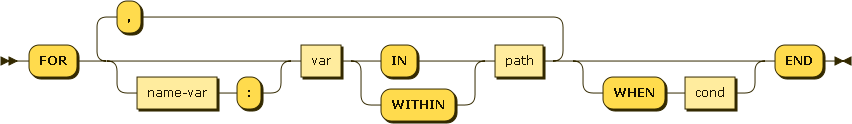
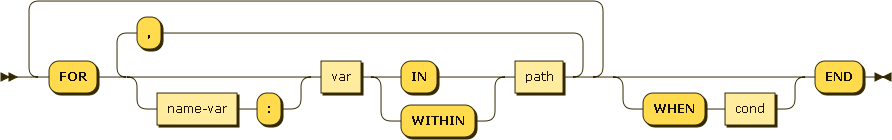
Add syntax for chained UPDATE FOR.

Changed region(s): [[0.0, 0.0, 1.0, 0.9919], [0.6714, 0.0242, 0.7019, 0.0484]]

diff --git a/docs/n1ql-dml.md b/docs/n1ql-dml.md
@@ -2,7 +2,7 @@
 
 + Status: DRAFT/PROPOSAL
 + Latest: [n1ql-dml](https://github.com/couchbase/query/blob/master/docs/n1ql-dml.md)
-+ Modified: 2016-03-28
++ Modified: 2016-06-04
 
 ## Introduction
 
@@ -322,6 +322,8 @@ Generator](http://railroad.my28msec.com/) ![](diagram/.png)
     * Explain that LIMIT is not exact
 * 2016-03-28 - Ranging over objects
     * Add syntax for UPDATE with ranging over objects
+* 2016-06-07 - Chained UPDATE FOR
+    * Add syntax for chained UPDATE FOR
 
 ### Open Issues
 
